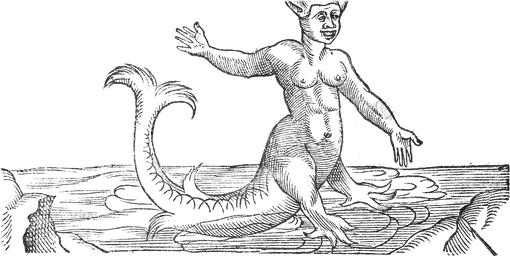
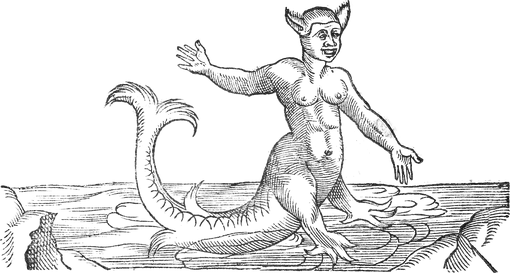
feat(packs): Paré's scaled sea lion and horned sea-man stay ink by a visual pass, the sea-man's crop takes both horns (#111)

diff --git a/docs/pare-3060/README.md b/docs/pare-3060/README.md
@@ -1,0 +1,20 @@
+# Paré's scaled sea lion and horned sea-man, `pare-lion` and `pare-seaman`: ink kept (#111)
+
+Two sprites of the `scanned` pack from one scan, `pare-3060` (Ambroise Paré, *Des monstres*, woodcut, Wellcome
+Collection L0033060, CC BY 4.0; 3530 px wide). Crops: lion (670,1220)-(2350,2230); sea-man (480,2830)-(2440,3930).
+
+![raw crop, the ink sprite, the patch candidate; 3x map size above, map size below, each multiplied onto parchment](steps.png)
+
+`steps.png`: for each sprite, left to right, the raw crop, the ink sprite (the one shipped) and the patch candidate
+(paper measured from the crop, `#d5d5d5` for the lion and `#cdcdcd` for the sea-man; no outline, the whole crop
+feathered at its edge), each multiplied onto parchment. The top two rows are 3x the width the map draws them (lion 180 px,
+sea-man 170 px); the bottom two rows are map size. `pare-*.raw.png` and `.key.png` (both shrunk to 700 px wide) with
+`.cut.png` are the images behind the ink sprites; `.patch.cut.png` is the candidate.
+
+| Sprite | Call | Reason | In the raw, not in the sprite |
+|---|---|---|---|
+| `pare-lion` | keep `ink` | Ink alone on paper; the hatching under each foot is kept by the silhouette, and the patch adds only the page's mottling | the page's grey tone and mottling; the verso's ghost lettering under the belly |
+| `pare-seaman` | keep `ink` | Ink alone on paper; the water band, its ripples and both rocks are kept, and the patch adds only stains | the page's grey tone and mottling; a dark stain behind the right hand; a page mark at the lower left |
+
+The sea-man's crop reaches 110 px higher than before (2830, not 2940), so both horns of his head-dress are in.
+Undo for each: `key: 'patch'` on the sprite (with a measured `paper`, as in the candidates, and no `silhouette`) in `scripts/build-packs.mjs`.
